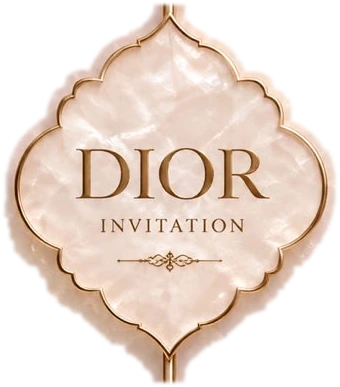
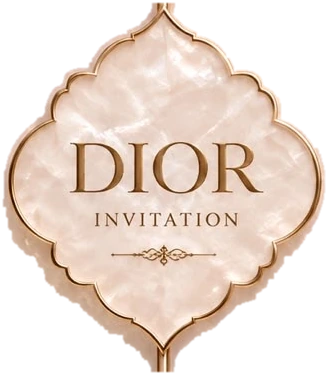
Dior Pink Flowers: no shadow or halo around the spinning medallion
- Removed the drop shadow applied while spinning; lighter motion blur.
- Medallion layer now hugs its gold outline, so no ring of background turns
  with it; the fill underneath matches it exactly (at rest still identical to
  the original cover).

Claude-Session: https://claude.ai/code/session_015zS94yBeWhGXKckDvFWUsm

diff --git a/components/invitation/pearl-lotus/PearlLotusInvitation.tsx b/components/invitation/pearl-lotus/PearlLotusInvitation.tsx
@@ -31,7 +31,7 @@ const M = manifestJson as unknown as {
 };
 const ASSET_ROOT = "/assets/themes/pearl-lotus/v1";
 /** Theme images are cached by browsers for a year; bump this whenever an image file changes. */
-const REV = "4";
+const REV = "5";
 const VARIANTS = ["blush"]; // prepared colour variants (folders under ASSET_ROOT)
 const pct = (n: number) => `${(n * 100).toFixed(4)}%`;
 
@@ -189,7 +189,7 @@ export default function PearlLotusInvitation({ vm, showcase = false, onOpenStart
           const rad = (face * Math.PI) / 180;
           const glint = Math.pow(Math.max(0, Math.cos(rad - 0.35)), 10); // light catching the gold
           gsap.set(sheenIns, { xPercent: Math.sin(rad) * 70 });
-          spin.style.filter = `blur(${Math.min(1.3, v * 0.3).toFixed(2)}px) brightness(${(1 + 0.22 * glint).toFixed(3)}) drop-shadow(0 ${(3 + v * 1.4).toFixed(1)}px ${(6 + v * 2.2).toFixed(1)}px rgba(92,58,34,0.3))`;
+          spin.style.filter = `blur(${Math.min(0.9, v * 0.22).toFixed(2)}px) brightness(${(1 + 0.22 * glint).toFixed(3)})`;
         },
       },
       0.08,

diff --git a/lib/themes.ts b/lib/themes.ts
@@ -1,6 +1,6 @@
 /** Client-safe helpers for theme assets (thumbnails etc.), keyed by renderer. */
 /** Browsers cache theme images for a year: bump a renderer's revision whenever its images change. */
-const REV: Record<string, string> = { "pearl-lotus@1": "4" };
+const REV: Record<string, string> = { "pearl-lotus@1": "5" };
 
 export function themeThumb(renderer: string, variant: string): string {
   const [name, ver] = renderer.split("@");

diff --git a/scripts/build_lotus_assets.py b/scripts/build_lotus_assets.py
@@ -76,13 +76,14 @@ def lift_medallion(img: np.ndarray, medal: np.ndarray, pearl: np.ndarray) -> np.
     """Cover without the medallion (seen only around it while it spins): the colours continue smoothly
     from the surrounding pearl (inpainting) and real pearl texture detail from the same empty area of
     page 1 is laid over them; everything outside the medallion stays original. The seam line continues."""
-    hole = cv2.dilate(medal, np.ones((5, 5), np.uint8))
+    hole = medal.copy()
     x0, y0, x1, y1 = BOX
     smooth = cv2.inpaint(img, hole * 255, 15, cv2.INPAINT_TELEA).astype(np.float32)
     tex = pearl.astype(np.float32)
     detail = tex - cv2.GaussianBlur(tex, (0, 0), 9)
     fill = np.clip(smooth + detail * 1.1, 0, 255)
-    soft = np.maximum(cv2.GaussianBlur(hole.astype(np.float32), (5, 5), 0), hole.astype(np.float32))[..., None]
+    soft = cv2.erode(hole, np.ones((3, 3), np.uint8)).astype(np.float32)
+    soft = np.maximum(cv2.GaussianBlur(soft, (3, 3), 0), soft)[..., None]
     base = (img.astype(np.float32) * (1 - soft) + fill * soft).astype(np.uint8)
     cx = int(round(SEAM_X))
     half = 9
@@ -138,8 +139,8 @@ def main() -> None:
     base = lift_medallion(clean, medal, page1)
 
     ys, xs = np.where(medal)
-    mx0, my0, mx1, my1 = xs.min() - 10, ys.min() - 10, xs.max() + 11, ys.max() + 11
-    alpha = cv2.GaussianBlur(cv2.dilate(medal, np.ones((11, 11), np.uint8)).astype(np.float32), (9, 9), 0)
+    mx0, my0, mx1, my1 = xs.min() - 4, ys.min() - 4, xs.max() + 5, ys.max() + 5
+    alpha = cv2.GaussianBlur(cv2.dilate(medal, np.ones((3, 3), np.uint8)).astype(np.float32), (3, 3), 0)
     alpha = (np.clip(alpha, 0, 1) * 255).astype(np.uint8)
     rgba = np.dstack([clean, alpha])[my0:my1, mx0:mx1]
 
